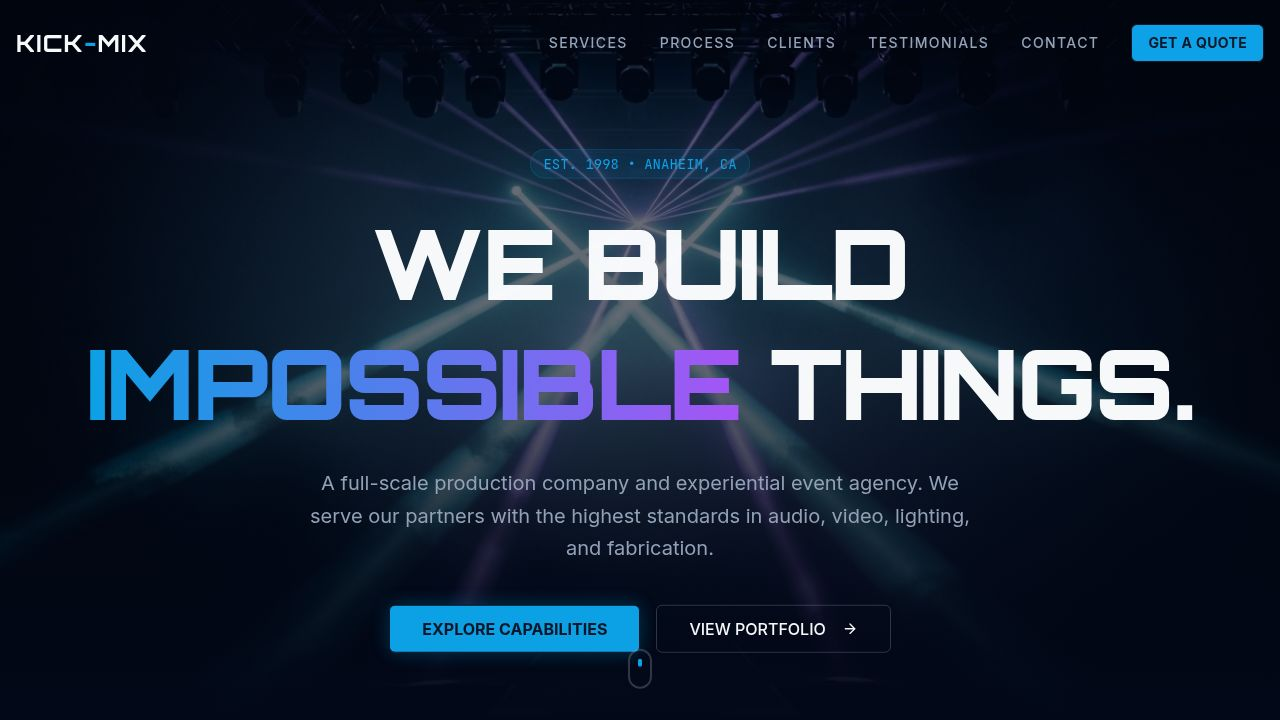
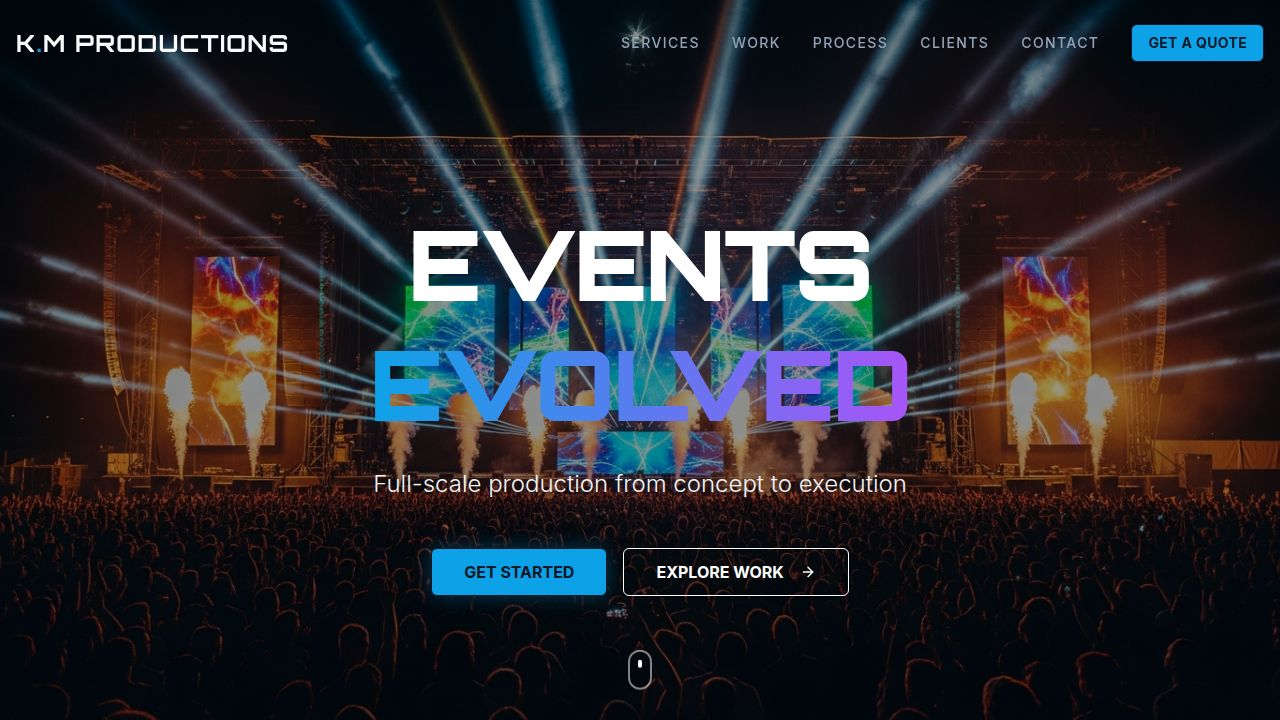
Update services section with new images and categories
Refactor client/src/components/sections/Services.tsx to include six distinct services, update associated images, and adjust icons and descriptions to align with the new service categories.

Replit-Commit-Author: Agent
Replit-Commit-Session-Id: 83d2b5a4-f861-4b1c-81ad-ef91c44230ec
Replit-Commit-Checkpoint-Type: full_checkpoint
Replit-Commit-Event-Id: 00470615-2a01-4e57-ae89-9a296a4e977e
Replit-Commit-Screenshot-Url: https://storage.googleapis.com/screenshot-production-us-central1/584e571f-6449-4723-b1d6-5652a626835f/83d2b5a4-f861-4b1c-81ad-ef91c44230ec/zh9EGaC
Replit-Helium-Checkpoint-Created: true

diff --git a/client/src/components/sections/Services.tsx b/client/src/components/sections/Services.tsx
@@ -1,56 +1,66 @@
 import { motion } from "framer-motion";
-import { Mic2, Hammer, Plane, MonitorPlay, Box, Sparkles } from "lucide-react";
-import productionImg from "@assets/generated_images/concert_stage_production_setup.png";
-import fabricationImg from "@assets/generated_images/custom_fabrication_workshop.png";
-import dronesImg from "@assets/generated_images/aerial_drone_city_view.png";
-import interactiveImg from "@assets/generated_images/interactive_vr/ar_experience.png";
-import logisticsImg from "@assets/generated_images/logistics_warehouse_operation.png";
+import { Mic2, Hammer, Plane, MonitorPlay, Box, Radio } from "lucide-react";
+import audioImg from "@assets/generated_images/professional_audio_mixing_console.png";
+import lightingImg from "@assets/generated_images/premium_stage_led_setup.png";
+import visualImg from "@assets/generated_images/interactive_led_installation.png";
+import fabricationImg from "@assets/generated_images/cnc_metal_fabrication_machine.png";
+import dronesImg from "@assets/generated_images/aerial_concert_drone_footage.png";
+import logisticsImg from "@assets/generated_images/professional_drone_equipment.png";
 
 const services = [
   {
-    id: "production",
+    id: "audio",
     icon: Mic2,
-    title: "EVENT PRODUCTION",
-    shortDesc: "Turnkey solutions for live events",
-    fullDesc: "From intimate gatherings to massive festivals, we handle every technical element. Concert-grade audio, dynamic lighting design, precision staging, and special effects bring your vision to life.",
-    image: productionImg,
-    specs: ["Audio Engineering", "Lighting Design", "Stage Production", "Special Effects"]
+    title: "SONIC ARCHITECTURE",
+    shortDesc: "Premium audio engineering",
+    fullDesc: "Immersive audio environments engineered for absolute clarity. From keynotes to galas, we design acoustic landscapes where every word is heard.",
+    image: audioImg,
+    specs: ["Audio Design", "Concert-Grade Systems", "Live Sound", "Acoustic Engineering"]
+  },
+  {
+    id: "lighting",
+    icon: MonitorPlay,
+    title: "ILLUMINATION & ATMOSPHERE",
+    shortDesc: "Transformative lighting design",
+    fullDesc: "Transforming physical spaces into brand experiences. We use advanced lighting to dictate energy and reinforce visual identity.",
+    image: lightingImg,
+    specs: ["Lighting Design", "Dynamic Systems", "Atmospheric Control", "Brand Integration"]
+  },
+  {
+    id: "visual",
+    icon: MonitorPlay,
+    title: "INTEGRATED VISUAL SYSTEMS",
+    shortDesc: "Seamless LED & projection",
+    fullDesc: "Seamless LED integration and 4K projection mapping. We manage technical complexity so your narrative remains the focus.",
+    image: visualImg,
+    specs: ["LED Integration", "4K Projection", "Content Management", "Real-time Control"]
   },
   {
     id: "fabrication",
     icon: Hammer,
-    title: "CUSTOM FABRICATION",
-    shortDesc: "Bespoke scenery & installations",
-    fullDesc: "Our in-house fabrication team designs and builds custom stages, scenic elements, and brand activations that push creative boundaries and defy expectations.",
+    title: "EXPERIMENTAL FABRICATION",
+    shortDesc: "Bespoke custom builds",
+    fullDesc: "Our in-house lab turns sketches into reality. Bespoke stages and interactive activations tailored to your brand's DNA.",
     image: fabricationImg,
-    specs: ["Stage Design", "3D Fabrication", "CNC Machining", "Custom Builds"]
+    specs: ["Stage Design", "CNC Machining", "Custom Builds", "Precision Engineering"]
   },
   {
     id: "drones",
     icon: Plane,
-    title: "DRONE SERVICES",
-    shortDesc: "Aerial cinematography & coverage",
-    fullDesc: "Capture stunning perspectives with our licensed pilots and cinema-grade equipment. Live aerials, commercial production, and drone light shows that elevate your event.",
+    title: "AERIAL INTELLIGENCE",
+    shortDesc: "Cinematic capture & surveying",
+    fullDesc: "High-end cinematic capture and site-mapping. A literal bird's-eye view of your event's scale and impact.",
     image: dronesImg,
-    specs: ["Live Broadcast", "Cinematography", "Drone Light Shows", "Surveying"]
-  },
-  {
-    id: "interactive",
-    icon: MonitorPlay,
-    title: "INTERACTIVE TECH",
-    shortDesc: "Cutting-edge audience engagement",
-    fullDesc: "Immersive technology that transforms passive audiences into active participants. LED walls, VR experiences, touch displays, and custom software solutions.",
-    image: interactiveImg,
-    specs: ["LED Video Walls", "VR/AR", "Touch Screens", "Real-time Systems"]
+    specs: ["Cinematic Footage", "Live Broadcast", "Drone Mapping", "Aerial Surveys"]
   },
   {
     id: "logistics",
     icon: Box,
-    title: "LOGISTICS & TRANSPORT",
-    shortDesc: "End-to-end equipment management",
-    fullDesc: "Global logistics expertise to move your production anywhere. International freight, customs brokerage, warehousing, and tour support across all markets.",
+    title: "TACTICAL LOGISTICS",
+    shortDesc: "Global production support",
+    fullDesc: "Global shipping, permitting, and on-site labor. Our team ensures the behind-the-scenes stays entirely out of sight.",
     image: logisticsImg,
-    specs: ["International Freight", "Tour Support", "Warehousing", "Equipment Management"]
+    specs: ["International Freight", "Customs & Permitting", "On-site Labor", "Equipment Management"]
   }
 ];
 
@@ -60,14 +70,14 @@ export default function Services() {
       <div className="container mx-auto px-4">
         {/* Section Header */}
         <div className="mb-20">
-          <h2 className="text-5xl md:text-6xl font-black mb-4">SERVICES</h2>
+          <h2 className="text-5xl md:text-6xl font-black mb-4">THE PRECISION SUITE</h2>
           <p className="text-xl text-muted-foreground max-w-2xl">
-            Complete production services tailored to your event's unique demands.
+            Six specialized capabilities designed to execute your vision with technical precision.
           </p>
         </div>
 
         {/* Services Grid */}
-        <div className="grid md:grid-cols-2 gap-8">
+        <div className="grid md:grid-cols-2 lg:grid-cols-3 gap-6">
           {services.map((service, index) => (
             <motion.div
               key={service.id}
@@ -75,11 +85,11 @@ export default function Services() {
               whileInView={{ opacity: 1, y: 0 }}
               viewport={{ once: true }}
               transition={{ delay: index * 0.1 }}
-              className="group"
+              className="group h-full"
             >
-              <div className="relative overflow-hidden rounded-lg border border-border/50 bg-secondary/10 hover:bg-secondary/20 transition-all duration-500">
+              <div className="relative overflow-hidden rounded-lg border border-border/50 bg-secondary/10 hover:bg-secondary/20 transition-all duration-500 h-full flex flex-col">
                 {/* Image */}
-                <div className="relative h-80 overflow-hidden bg-secondary">
+                <div className="relative h-56 overflow-hidden bg-secondary">
                   <img
                     src={service.image}
                     alt={service.title}
@@ -89,24 +99,24 @@ export default function Services() {
                 </div>
 
                 {/* Content */}
-                <div className="p-8">
-                  <div className="flex items-start justify-between mb-4">
+                <div className="p-6 flex flex-col flex-grow">
+                  <div className="flex items-start justify-between mb-3">
                     <div>
-                      <h3 className="text-2xl font-black text-white mb-1">{service.title}</h3>
-                      <p className="text-primary font-bold text-sm">{service.shortDesc}</p>
+                      <h3 className="text-lg font-black text-white mb-1">{service.title}</h3>
+                      <p className="text-primary font-bold text-xs">{service.shortDesc}</p>
                     </div>
-                    <service.icon className="w-6 h-6 text-primary flex-shrink-0 mt-1" />
+                    <service.icon className="w-5 h-5 text-primary flex-shrink-0 mt-1" />
                   </div>
 
-                  <p className="text-slate-300 mb-6 leading-relaxed">
+                  <p className="text-slate-300 mb-4 text-sm leading-relaxed flex-grow">
                     {service.fullDesc}
                   </p>
 
                   {/* Specs */}
                   <div className="space-y-2">
                     {service.specs.map((spec, i) => (
-                      <div key={i} className="flex items-center text-sm text-muted-foreground">
-                        <span className="w-1.5 h-1.5 rounded-full bg-primary mr-3" />
+                      <div key={i} className="flex items-center text-xs text-muted-foreground">
+                        <span className="w-1 h-1 rounded-full bg-primary mr-2" />
                         {spec}
                       </div>
                     ))}
